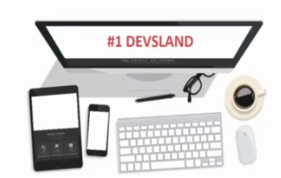
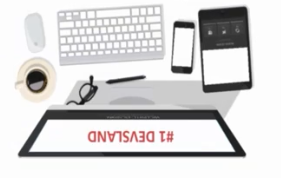
Update website content and fixes

diff --git a/style.css b/style.css
@@ -323,7 +323,7 @@ b{
 .services p{
 	margin-top: 20px;
 }
-@media(max-width: 768px;){
+@media(max-width: 768px){
 .services{
 	margin-top: 50px;
 	padding: 50px;
@@ -365,7 +365,7 @@ b{
 	margin-top: 20px;
 }
 
-@media(max-width: 768px;){
+@media(max-width: 768px){
 	.sales{
 		padding: 30px;
 		min-height: 500px;
@@ -437,50 +437,67 @@ b{
     margin-right: auto;
   }
 }
-/*mission section css */
+/* Mission Section */
 .mission{
-	padding: 80px;
-	min-height: 600px;
-	padding-top:120px; 
+    padding:100px 0;
+    background:#fff;
 }
+
 .mission #left-side{
-	margin-bottom: 50px;
+    padding-top:40px;
 }
+
 .mission #left-side h1{
-	font-family: 'Montserrat',sans-serif;
-	font-size: 30px;
-	  line-height: 1.3; /* prevents text from overlapping */
-  margin-bottom: 15px; /* space after heading */
+    font-family:'Montserrat',sans-serif;
+    font-size:42px;
+    font-weight:700;
+    margin-bottom:30px;
+    color:#222;
 }
+
 .mission #left-side p{
-	margin-top: 20px;
-	font-size: 17px;
-	text-align: justify;
-	line-height: 30px;
+    font-size:18px;
+    line-height:1.9;
+    color:#555;
+    margin-bottom:25px;
 }
+
+.mission #left-side .btn{
+    margin-top:15px;
+    padding:12px 30px;
+    border-radius:0;
+}
+.mission #right-side{
+    display:flex;
+    justify-content:center;
+    align-items:center;
+}
+
 .mission #right-side img{
-	min-height: 500px;
-	width:650px;
-	margin-left: 120px;
+     width:350px !important;
+    max-width:350px !important;
+    height:auto !important;
+    min-height:0 !important;
+    margin:0 auto !important;
+    border:3px solid red !important;
+    transform: rotate(180deg);
 }
-@media(max-width: 834px;){
-	.mission{
-		padding: 80px;
-		min-height: 600px;
-		margin-top: 20px;
-		padding-right: 20px;
-		padding-left: 20px;
-	}
-	.mission #right-side img{
-		margin-top: 60px;
-		height: 100%;
-		width: 100%;
-		margin-left: auto;
-		margin-right: auto;
-	}
-	.mission #left-side h1{
-		font-size: 17px;
-	}
+
+/* Mobile Responsive */
+@media (max-width:768px){
+
+    .mission{
+        padding:60px 20px;
+        text-align:center;
+    }
+
+    .mission #left-side h1{
+        font-size:30px;
+    }
+
+    .mission #right-side{
+        margin-top:40px;
+    }
 }
 /*client section css */
 .clients{
@@ -506,7 +523,7 @@ b{
 	cursor: pointer;
 	margin: 40px 0;
 }
-@media(max-width: 768px;){
+@media(max-width: 768px){
 	.clients p{
 	margin-left: 20px;
 	margin-right: 20px;
@@ -657,17 +674,4 @@ b{
     margin-right: 20px;
   }
 }
-</style>
 
-
-
-
-
-
-
-
-
-
-/* ================================
-   Default styles end here
-   ================================ */

diff --git a/index.html b/index.html
@@ -212,20 +212,41 @@
     </div>
   </div>
 </div>
-<!-- mission section-->
+<!-- Mission Section -->
 <div id="mission" class="mission">
-<div class="container">
-<div class="col-lg-6 col-md-6" id="left-side">
-<h1 class="wow animate__animated animate__fadeInLeft">Why are we different?</h1>
-<p class="wow animate__animated animate__slideInUp"> Our mission is to deliver the best sales result and to grow your brand the
- digital reals,we use the most updated tect for web services and state of art
- anaylytics tool for marketing analysis.</p>
- <p class="wow animate__animated animate__slideInUp">We 7 year experience in delivering the quality result with some huge corporation,
- join us today and be part of it.</p>
-</div>
-<div class="col-lg-6 col-md-6 wow animate__animated animate__fadeInRight" id="left-side">
-<img src="images/img3.PNG">
-</div>
+    <div class="container">
+        <div class="row">
+
+            <!-- Left Content -->
+            <div class="col-lg-6 col-md-6" id="left-side">
+
+                <h1 class="wow animate__animated animate__fadeInLeft">
+                    WHY ARE WE DIFFERENT?
+                </h1>
+
+                <p class="wow animate__animated animate__slideInUp">
+                    Our mission is to deliver the best sales results and help grow your brand in the digital world. We use the latest technologies for web services and state-of-the-art analytics tools for marketing analysis.
+                </p>
+
+                <p class="wow animate__animated animate__slideInUp">
+                    With 7 years of experience delivering quality results for major corporations, we are committed to helping businesses succeed. Join us today and become part of our journey.
+                </p>
+
+                <button class="btn btn-danger btn-lg">
+                    Learn More
+                </button>
+
+            </div>
+
+            <!-- Right Image -->
+            <div class="col-lg-6 col-md-6 text-center" id="right-side">
+
+                <img src="images/img3.PNG" alt="Mission">
+
+            </div>
+
+        </div>
+    </div>
 </div>
 <!-- clients section-->
 <div id="clients" class="clients">
@@ -261,7 +282,7 @@
       <p class="wow animate__animated animate__fadeInUp">Join us today and be part of our team by applying!</p>
 
       <div class="col-lg-3 col-md-3 col-sm-6 col-12 wow animate__animated animate__fadeInLeft" data-wow-delay="0.2s" >
-    <img src="images/ceo dev.jpg" alt="CEO">
+    <img src="images/ceo dev.JPG" alt="CEO">
     <h4>Mr R.A Khan</h4>
     <h3>CEO</h3>
     <!-- Facebook -->
@@ -269,7 +290,7 @@
         <i class="fab fa-facebook-f"></i>
     </a>
     <!-- Instagram -->
-    <a href="    <a href="https://www.instagram.com/itx.rizwanalikhan482?igsh=aHFxOWhweTh5Mm52" target="_blank" style="color: #E4405F;">
+    <a href="<a href="https://www.instagram.com/itx.rizwanalikhan482?igsh=aHFxOWhweTh5Mm52" target="_blank" style="color: #E4405F;">
         <i class="fab fa-instagram"></i>
     </a>
     <!-- X (Twitter) -->

diff --git a/css/style.css b/css/style.css
@@ -458,10 +458,14 @@ b{
 	text-align: justify;
 	line-height: 30px;
 }
-.mission #right-side img{
-	min-height: 500px;
-	width:650px;
-	margin-left: 120px;
+#right-side img{
+    width:350px !important;
+    max-width:350px !important;
+    height:auto !important;
+    min-height:0 !important;
+    margin:0 auto !important;
+    border:3px solid red !important;
+    transform: rotate(180deg);
 }
 @media(max-width: 834px;){
 	.mission{